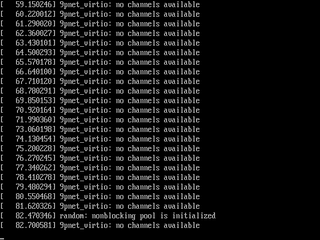
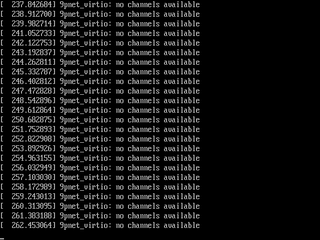
Recompiler: the translation memo bounded by the source it holds -- Windows ME, Linux 3.x and TinyCore run again
The memo (translations kept across reset() under paging) was bounded by a count, 200 000 blocks, and
each entry keeps its compiled function, which V8 charges at about eight times the source. Since paged
blocks follow jumps and calls (2e0bb67) it grew to 1.3 GB: Linux 3.x froze at 120 guest seconds,
TinyCore near 800, Windows ME at ScanDisk, the host spending 99.4 % of its time in the garbage
collector (bisected, then profiled from the moment of the freeze). It now holds at most 32 MiB of
source, the oldest keys going first. All three run on: ME to its desktop, Linux 3.x to 300 s, TinyCore
to 900 s. Dhrystone and CoreMark under MIRAGE-LINUX unchanged (895 k/s, 1 050 it/s).
Test: inserts past the bound keep it, the newest entries kept; it fails with the old count bound.

Changed region(s): [[0.0312, 0.0, 0.1875, 0.9625], [0.1875, 0.875, 0.6875, 0.9333]]

diff --git a/src/recompiler.js b/src/recompiler.js
@@ -62,7 +62,11 @@ const NOSIDEEXIT = typeof process !== 'undefined' && !!(process.env && process.e
 const NOSKIP = typeof process !== 'undefined' && !!(process.env && process.env.MIRAGE_NOSKIP);
 // MIRAGE_NOMEMO=1: no translation memo across reset() (see _memoGet).
 const NOMEMO = typeof process !== 'undefined' && !!(process.env && process.env.MIRAGE_NOMEMO);
-const MEMO_MAX = 200000;          // blocks the memo keeps (the oldest go first)
+// The memo is bounded by the source it holds, as the code cache is: each entry keeps its compiled
+// function, which V8 charges at about eight times the source. Bounded by count (200 000 blocks), it
+// held 1.3 GB once paged blocks grew (followed jumps and calls, 2e0bb67): Linux 3.x, TinyCore and
+// Windows ME then spent 99 % of their time in the garbage collector and guest time stood still.
+const MEMO_BYTES = 32 << 20;
 const EMPTY_LINES = [];   // shared placeholder for a block whose source is not retained
 const T2_HOT = 64;         // promote a block to a region after this many executions
 // The block directory: one slot per 4 KiB page of the 4 GiB linear space, dense from the start. Grown
@@ -240,6 +244,7 @@ export class Recompiler {
     // a quarter of the host time of building DOOM in MIRAGE-LINUX. A block is reused only where
     // memory holds exactly its bytes, in the mode it was translated for.
     this.memo = new Map();             // key -> [{ snap, tmpl }]
+    this.memoBytes = 0; this.memoCap = MEMO_BYTES;   // the source the memo holds, and its bound
     this.epoch = 0;                // bumped by each CR3 load under paging; see _revalidate (ROADMAP D8)
     // Two block caches, paging on and paging off, swapped by switchPaging rather than dropped. A DPMI
     // host that pages (CWSDPMI) returns to real mode for every interrupt and DOS call: FreeDOS running
@@ -807,12 +812,15 @@ export class Recompiler {
     const snap = this._bytes(blk.linStart, blk.linEnd);
     if (snap === null) return;
     let list = this.memo.get(key);
-    if (list === undefined) {
-      if (this.memo.size >= MEMO_MAX) this.memo.delete(this.memo.keys().next().value);
-      list = []; this.memo.set(key, list);
-    }
-    if (list.length >= 4) list.shift();             // a few programs at the same address (cpp, cc1, as)
+    if (list === undefined) { list = []; this.memo.set(key, list); }
+    if (list.length >= 4) this.memoBytes -= list.shift().tmpl.bodyLen || 0;   // a few programs at the same address (cpp, cc1, as)
     list.push({ snap, tmpl: { ...blk, hot: 0, epoch: 0, ph0: -1, ph1: -1, snap: null } });
+    this.memoBytes += blk.bodyLen || 0;
+    for (const [k, l] of this.memo) {               // the oldest keys go first, until the source fits
+      if (this.memoBytes <= this.memoCap || k === key) break;
+      for (const e of l) this.memoBytes -= e.tmpl.bodyLen || 0;
+      this.memo.delete(k);
+    }
   }
 
   /** Execute exactly one instruction, uncached — used by the conformance harness

diff --git a/tools/test.js b/tools/test.js
@@ -2684,6 +2684,15 @@ const udRun = (gated) => {
   eq('render() with linear page 0 unmapped does not fault', err, null);
   eq('...and draws the text cell (blue background behind a white glyph)', !!v.u32 && v.u32[0] !== v.u32[v.imgW * 20], true); }
 
+// ---- the translation memo is bounded by the source it holds -------------------------------------------
+// Each memo entry keeps its compiled function (V8 charges about eight times the source). Bounded by a
+// count of 200 000 blocks, it reached 1.3 GB once paged blocks followed jumps and calls: Linux 3.x,
+// TinyCore and Windows ME spent 99 % of their time in the garbage collector, guest time standing still.
+{ const mc = new Machine({ memSize: 1 << 20 }), rec = mc.rec;
+  rec.memoCap = 10000;
+  for (let i = 0; i < 100; i++) rec._memoPut('k' + i, { linStart: 0x1000 + i * 16, linEnd: 0x1010 + i * 16, bodyLen: 1000 });
+  eq('the memo keeps no more source than its bound, the newest entries', [rec.memoBytes <= 10000, rec.memo.size, rec.memo.has('k99'), rec.memo.has('k0')].join(), 'true,10,true,false'); }
+
 // ---- a 16-colour mode's height is the CRTC's, double scan included ------------------------------------
 // Pinball Fantasies sets mode 12h and then doubles every line (CRTC 09h bit 7) for a 640x240 menu. The
 // planar renderer took the mode's 480 lines and drew the memory below the menu as its lower half.

diff --git a/docs/COMPATIBILITY.md b/docs/COMPATIBILITY.md
@@ -36,7 +36,7 @@ needs beyond the defaults (16 MiB, the `386` profile, no PCI).
 | <img src="compat/win31.png" width="160" alt=""> | Windows 3.1, standard mode | 🟢 Plays | Program Manager at 1024×768×256, pixel-identical to QEMU | — | 2026-11-05 |
 | <img src="compat/win95.png" width="160" alt=""> | Windows 95 | 🟢 Plays | the desktop (Enter at its three dialogs) | 64 MiB, `586` | 2026-11-05 |
 | <img src="compat/win98.png" width="160" alt=""> | Windows 98 | 🟢 Plays | the desktop | 64 MiB, `586` | 2026-11-05 |
-| <img src="compat/os-winme.png" width="160" alt=""> | Windows ME | 🟠 Starts | ScanDisk at 180 guest s, then guest time stops advancing (under investigation, as Linux 3.x and TinyCore); the desktop was reached in 2026-10 | 128 MiB, `586` | 2026-11-05 |
+| <img src="compat/os-winme.png" width="160" alt=""> | Windows ME | 🟢 Plays | the desktop, after ScanDisk and its display settings (Esc at the hardware wizard). Guest time stood still at ScanDisk from 2026-10-29 to 2026-11-06: the translation memo filled the host's heap | 128 MiB, `586` | 2026-11-06 |
 | <img src="compat/os-nt351.png" width="160" alt=""> | Windows NT 3.51 | 🟢 Plays | Program Manager (its welcome screen identical to QEMU `-M pc`'s; Ctrl+Alt+Del, empty password, Enter at the Service Control Manager and Invalid System Time messages) | 64 MiB, `586`, PCI | 2026-11-05 |
 | <img src="compat/os-win2k.png" width="160" alt=""> | Windows 2000 | 🔴 Fails | its boot screen, progress bar empty | 256 MiB, `pentiumpro`, PCI | 2026-11-05 |
 | <img src="compat/msdos622.png" width="160" alt=""> | MS-DOS 6.22 | 🟢 Plays | the prompt (DOOM under EMM386 last run 2026-09-28) | — | 2026-11-05 |
@@ -63,9 +63,9 @@ needs beyond the defaults (16 MiB, the `386` profile, no PCI).
 | <img src="compat/freenos.png" width="160" alt=""> | FreeNOS 1.0.3 | 🟢 Plays | its system information and a shell; its timer reads "0 ticks" (broken from 2026-10-29 to 2026-11-05: a #PF raised while translating code that never runs) | 256 MiB, `686` | 2026-11-05 |
 | <img src="compat/os-xwoaf.png" width="160" alt=""> | xwoaf (Linux, X11 on a floppy-sized CD) | 🟠 Starts | the keyboard chooser before `login:` | 256 MiB | 2026-11-05 |
 | <img src="compat/os-oberon.png" width="160" alt=""> | Oberon | 🟠 Starts | "OBERON loading…", then nothing | 64 MiB | 2026-11-05 |
-| <img src="compat/os-linux3.png" width="160" alt=""> | Linux 3.x (v86's mini CD) | 🟠 Starts | the kernel boots and waits for a virtio 9p root (v86's own); at 120 guest s guest time stops advancing (under investigation) | 128 MiB, `686` | 2026-11-05 |
+| <img src="compat/os-linux3.png" width="160" alt=""> | Linux 3.x (v86's mini CD) | 🟠 Starts | the kernel boots and waits for a virtio 9p root (v86's own); it froze at 120 guest s from 2026-10-29 to 2026-11-06 (the memo) | 128 MiB, `686` | 2026-11-06 |
 | <img src="compat/os-linux26.png" width="160" alt=""> | Linux 2.6 (v86's mini CD) | 🔴 Fails | ISOLINUX: "Booting kernel failed: Invalid argument" | 128 MiB, `686` | 2026-11-05 |
-| <img src="compat/os-tinycore.png" width="160" alt=""> | TinyCore 11 | 🟠 Starts | "Loading extensions…", udev killing slow modprobes; near 800 guest s guest time stops advancing (under investigation) | 256 MiB, `686` | 2026-11-05 |
+| <img src="compat/os-tinycore.png" width="160" alt=""> | TinyCore 11 | 🟠 Starts | "Loading extensions…", udev killing slow modprobes, after 900 guest s (it froze near 800 s from 2026-10-29 to 2026-11-06, the memo) | 256 MiB, `686` | 2026-11-06 |
 | <img src="compat/os-slitaz.png" width="160" alt=""> | SliTaz rolling 2024 | 🟠 Starts | "Decompressing Linux…" at 600 guest s; a kernel panic in an interrupt was seen in 2026-10 | 512 MiB, `686` | 2026-11-05 |
 | <img src="compat/os-helenos.png" width="160" alt=""> | HelenOS 0.14.1 | 🟠 Starts | the SPARTAN kernel boots and starts its services; rd and ns then die on a user-mode page fault at the same kernel address, 80167F55h | 256 MiB, `686` (or `586`) | 2026-11-05 |
 | <img src="compat/os-sortix.png" width="160" alt=""> | Sortix 1.0 | 🟠 Starts | GRUB loading its 5 MB initrd, unfinished after 600 guest s | 512 MiB, `686` | 2026-11-05 |

diff --git a/docs/KNOWN-ISSUES.md b/docs/KNOWN-ISSUES.md
@@ -25,7 +25,7 @@ is only suspected. What is planned about them is in [ROADMAP.md](ROADMAP.md); wh
 | ReactOS 0.4.15 | a stop in the kernel | **Known**: no ACPI tables. |
 | Plan 9 (9legacy) | after the kernel is entered | **Known**: it runs with an instruction pointer above FFFFh in a 16-bit code segment, which MIRAGE does not handle. |
 | Damn Small Linux 4.4.10 | a black screen at runlevel 5 | **Unknown**: not investigated — it may only be slow. |
-| Windows ME, Linux 3.x (v86's mini CD), TinyCore 11, OpenBSD | guest time stops advancing: ME at ScanDisk (180 s), Linux 3.x at 120 s, TinyCore near 800 s, OpenBSD near 250 s | **Under investigation** (2026-11-05): the host keeps running and the guest clock stands still, the same symptom on four systems. OpenBSD did the same on 2026-10-20; the others are being bisected. |
+| OpenBSD | "starting network", about 250 guest s in | **Unknown**: guest time stops advancing while the host keeps running, as on 2026-10-20; `login:` was reached in 2026-09. (Windows ME, Linux 3.x and TinyCore had the same symptom, from the translation memo filling the heap: fixed 2026-11-06.) |
 | 386BSD 1.0 | not stopped: `login:` is in video memory | **Display**: once the kernel has the console, the screen is drawn as one text row (640×16). Not investigated. |
 | XCOM (`xcom144.img`) | its 640×480 screen draws as noise | **Display, suspected**: the system runs (HDPMI32, its FreeDOS); the picture has been noise since at least 2026-10-20. |
 

diff --git a/CHANGELOG.md b/CHANGELOG.md
@@ -4,6 +4,13 @@ What changed on [mirage-x86.pages.dev](https://mirage-x86.pages.dev), and in MIR
 newest first. The site is updated continuously, so entries are dated rather than versioned. Every
 change is in the [commit history](https://github.com/jfrelat-lab/mirage-x86/commits/main).
 
+## 2026-11-06
+
+- **Windows ME, Linux 3.x and TinyCore no longer freeze**: the recompiler's memo of past translations
+  was bounded by a count of blocks, each holding its compiled function; once paged blocks grew it held
+  1.3 GB and the host spent 99 % of its time collecting garbage. It is now bounded by the source it
+  holds, as the code cache is. Windows ME reaches its desktop again.
+
 ## 2026-11-05
 
 - **Windows NT 3.51 reaches Program Manager** in the bare PC (64 MiB, `586`, PCI). An IRET to a code
